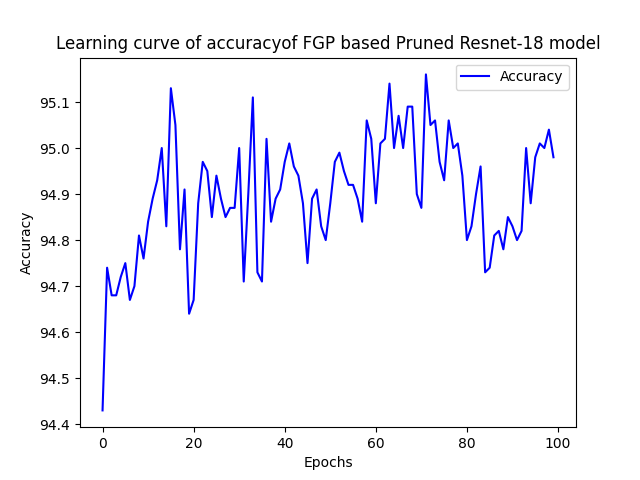
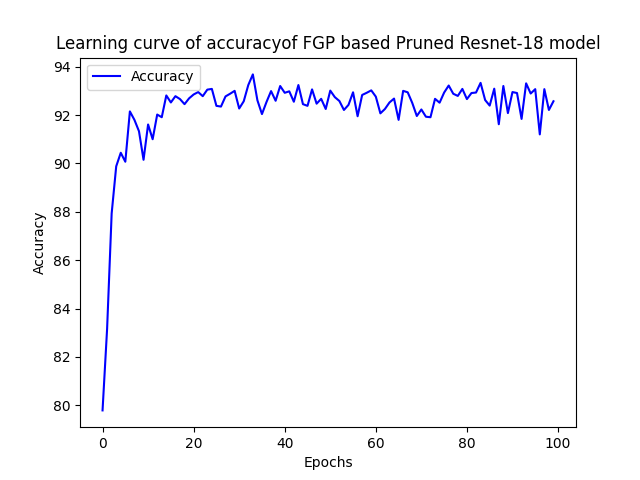
Resnet18 FGP redone

diff --git a/Utills/PrunUtillCP.py b/Utills/PrunUtillCP.py
@@ -208,11 +208,11 @@ def channel_prune_vgg(model,
 
 @torch.no_grad()
 def channel_prune_resnet(model, prune_ratios: Union[float, dict,list]):    
-    def prune_block(block, prune_ratios,n_keep):
+    def prune_block(block, prune_ratios,prev_n_keep):
         if block.shortcut:
-            block.shortcut[0].weight.set_(block.shortcut[0].weight.detach()[:,:n_keep]) #fixing number of inchannels due to previous channel change
+            block.shortcut[0].weight.set_(block.shortcut[0].weight.detach()[:,:prev_n_keep]) #fixing number of inchannels due to previous channel change
 
-        block.conv1.weight.set_(block.conv1.weight.detach()[:,:n_keep]) #fixing number of inchannels due to previous channel chang
+        block.conv1.weight.set_(block.conv1.weight.detach()[:,:prev_n_keep]) #fixing number of inchannels due to previous channel chang
 
         original_channels=block.conv1.out_channels
         n_keep = get_num_channels_to_keep(original_channels, prune_ratios)
@@ -237,30 +237,42 @@ def channel_prune_resnet(model, prune_ratios: Union[float, dict,list]):
             block.shortcut[1].running_var.set_(block.shortcut[1].running_var.detach()[:n_keep])
         return n_keep #we will need n_keep to fix next conv' inchannels fixing
 
-    def prune_bn_block(block, prune_ratios, n_keep):
+    def prune_bn_block(block, prune_ratios, prev_n_keep):
         if block.shortcut:
-            block.shortcut[0].weight.set_(block.shortcut[0].weight.detach()[:,:n_keep]) #fixing number of inchannels due to previous channel change
+            block.shortcut[0].weight.set_(block.shortcut[0].weight.detach()[:,:prev_n_keep]) #fixing number of inchannels due to previous channel change
 
-        block.conv1.weight.set_(block.conv1.weight.detach()[:,:n_keep]) #fixing number of inchannels due to previous channel chang
+        block.conv1.weight.set_(block.conv1.weight.detach()[:,:prev_n_keep]) #fixing number of inchannels due to previous channel chang
 
         original_channels=block.conv1.out_channels
-        n_keep_mid = get_num_channels_to_keep(original_channels, prune_ratios)
-        block.conv1.weight.set_(block.conv1.weight.detach()[:n_keep_mid])
-        block.bn1.weight.set_(block.bn1.weight.detach()[:n_keep_mid])
-        block.bn1.bias.set_(block.bn1.bias.detach()[:n_keep_mid])
-        block.bn1.running_mean.set_(block.bn1.running_mean.detach()[:n_keep_mid])
-        block.bn1.running_var.set_(block.bn1.running_var.detach()[:n_keep_mid])
+        n_keep = get_num_channels_to_keep(original_channels, prune_ratios)
+        block.conv1.weight.set_(block.conv1.weight.detach()[:n_keep])
+        block.bn1.weight.set_(block.bn1.weight.detach()[:n_keep])
+        block.bn1.bias.set_(block.bn1.bias.detach()[:n_keep])
+        block.bn1.running_mean.set_(block.bn1.running_mean.detach()[:n_keep])
+        block.bn1.running_var.set_(block.bn1.running_var.detach()[:n_keep])
 
-        block.conv2.weight.set_(block.conv2.weight.detach()[:,:n_keep_mid]) #fixing number of inchannels due to previous channel change
+        block.conv2.weight.set_(block.conv2.weight.detach()[:,:n_keep]) #fixing number of inchannels due to previous channel change
 
-        block.conv2.weight.set_(block.conv2.weight.detach()[:n_keep_mid])
-        block.bn2.weight.set_(block.bn2.weight.detach()[:n_keep_mid])
-        block.bn2.bias.set_(block.bn2.bias.detach()[:n_keep_mid])
-        block.bn2.running_mean.set_(block.bn2.running_mean.detach()[:n_keep_mid])
-        block.bn2.running_var.set_(block.bn2.running_var.detach()[:n_keep_mid])
+        block.conv2.weight.set_(block.conv2.weight.detach()[:n_keep])
+        block.bn2.weight.set_(block.bn2.weight.detach()[:n_keep])
+        block.bn2.bias.set_(block.bn2.bias.detach()[:n_keep])
+        block.bn2.running_mean.set_(block.bn2.running_mean.detach()[:n_keep])
+        block.bn2.running_var.set_(block.bn2.running_var.detach()[:n_keep])
 
-        block.conv3.weight.set_(block.conv3.weight.detach()[:,:n_keep_mid]) #fixing number of inchannels due to previous channel change
-        return block.conv3.out_channels
+        block.conv3.weight.set_(block.conv3.weight.detach()[:,:n_keep]) #fixing number of inchannels due to previous channel change
+        
+        block.conv3.weight.set_(block.conv3.weight.detach()[:n_keep*block.expansion])
+        block.bn3.weight.set_(block.bn3.weight.detach()[:n_keep*block.expansion])
+        block.bn3.bias.set_(block.bn3.bias.detach()[:n_keep*block.expansion])
+        block.bn3.running_mean.set_(block.bn3.running_mean.detach()[:n_keep*block.expansion])
+        block.bn3.running_var.set_(block.bn3.running_var.detach()[:n_keep*block.expansion])
+        if block.shortcut:
+            block.shortcut[0].weight.set_(block.shortcut[0].weight.detach()[:n_keep*block.expansion]) #fixing number of inchannels due to previous channel change
+            block.shortcut[1].weight.set_(block.shortcut[1].weight.detach()[:n_keep*block.expansion])
+            block.shortcut[1].bias.set_(block.shortcut[1].bias.detach()[:n_keep*block.expansion])
+            block.shortcut[1].running_mean.set_(block.shortcut[1].running_mean.detach()[:n_keep*block.expansion])
+            block.shortcut[1].running_var.set_(block.shortcut[1].running_var.detach()[:n_keep*block.expansion])
+        return n_keep*block.expansion #we will need n_keep to fix next conv' inchannels fixing
 
     assert isinstance(prune_ratios, (float, dict,list))
     # note that for the ratios, it affects the previous conv output and next

diff --git a/PruneTrain.py b/PruneTrain.py
@@ -23,34 +23,48 @@ def main():
     # Initialize the model
     basedir='PruningNAS'
     path='./dataset/cifar10'
-    select_model='Resnet-50'
-    pruning_type='CP'
+    select_model='Resnet-18'
+    pruning_type='FGP'
     #model_path='./checkpoint/vgg_mrl_99.51375579833984.pth'
-    model_path=f'{basedir}/checkpoint/Resnet-50/Resnet-50_cifar_95.739998.pth'
+    model_path=r'PruningNAS\checkpoint\Resnet-18\Resnet-18_cifar_95.659996.pth'
     # Load the saved state_dict correctly
     model = torch.load(model_path, map_location=torch.device(device),weights_only=False)  # Use 'cpu' if necessary
 
     model.to(device)
 
-    sparsity_dict = {
-        "conv1": 0.3,
-        "layer1.0": 0.4,
-        "layer1.1": 0.9,
-        "layer1.2": 0.3,
-        "layer2.0": 0.4,
-        "layer2.1": 0.9,
-        "layer2.2": 0.9,
-        "layer2.3": 0.8,
-        "layer3.0": 0.3,
-        "layer3.1": 0.9,
-        "layer3.2": 0.9,
-        "layer3.3": 0.8,
-        "layer3.4": 0.7,
-        "layer3.5": 0.6,
-        "layer4.0": 0.4,
-        "layer4.1": 0.9,
-        "layer4.2": 0.8
-    }
+    sparsity_dict =  {
+    "conv1": 0.8,
+
+    "layer1.0.conv1": 0.9,
+    "layer1.0.conv2": 0.9,
+    "layer1.1.conv1": 0.9,
+    "layer1.1.conv2": 0.9,
+
+    "layer2.0.conv1": 0.7,
+    "layer2.0.conv2": 0.7,
+    "layer2.0.shortcut.0": 0.9,
+
+    "layer2.1.conv1": 0.8,
+    "layer2.1.conv2": 0.9,
+
+    "layer3.0.conv1": 0.7,
+    "layer3.0.conv2": 0.7,
+    "layer3.0.shortcut.0": 0.9,
+
+    "layer3.1.conv1": 0.7,
+    "layer3.1.conv2": 0.9,
+
+    "layer4.0.conv1": 0.9,
+    "layer4.0.conv2": 0.9,
+    "layer4.0.shortcut.0": 0.9,
+
+    "layer4.1.conv1": 0.9,
+    "layer4.1.conv2": 0.9,
+
+    "fc": 0.9
+}
+
+
 
     # sparsity_dict ={ 
     # 'conv1':0.80,

diff --git a/PruneEvaluator.py b/PruneEvaluator.py
@@ -12,10 +12,10 @@ def main():
     # Initialize the model
     basedir='PruningNAS'
     path='./dataset/cifar10'
-    select_model='Resnet-152'
+    select_model='Resnet-18'
     prune_type='FGP'
     #model_path=f'{basedir}/checkpoint/vgg_mrl_99.51375579833984.pth'
-    model_path=f'{basedir}/checkpoint/Resnet-152/Resnet-152_cifar_95.830002.pth'
+    model_path=f'{basedir}/checkpoint/{select_model}/Resnet-18_cifar_95.659996.pth'
     # Load the saved state_dict correctly
     model = torch.load(model_path, map_location=torch.device(device),weights_only=False)  # Use 'cpu' if necessary
     model.to(device)
@@ -26,14 +26,14 @@ def main():
     train_dataloader,test_dataloader=get_dataloaders(path )
     ############# calculate sparsities (optional) #############################################
 
-    # sparsities, accuracies,names = sensitivity_scan(
-    # model, test_dataloader, scan_step=0.1, scan_start=0.1, scan_end=1.0,prune_type=prune_type,select_model=select_model)
+    sparsities, accuracies,names = sensitivity_scan(
+    model, test_dataloader, scan_step=0.1, scan_start=0.1, scan_end=1.0,prune_type=prune_type,select_model=select_model)
 
-    # with open(sparsities_path, "wb") as f:
-    #     pickle.dump(sparsities, f)
+    with open(sparsities_path, "wb") as f:
+        pickle.dump(sparsities, f)
 
-    # with open(accuracies_path, "wb") as f:
-    #     pickle.dump((accuracies,names), f)
+    with open(accuracies_path, "wb") as f:
+        pickle.dump((accuracies,names), f)
 
     ############################################################################################
     with open(sparsities_path, "rb") as f:

diff --git a/Models/DenseNet.py b/Models/DenseNet.py
@@ -81,7 +81,7 @@ class DenseNet(nn.Module):
                  growth_rate=32,
                  block_config=(6, 12, 24, 16),  # DenseNet-121
                  num_init_features=64,
-                 num_classes=10):
+                 classes=10):
 
         super().__init__()
 
@@ -109,7 +109,7 @@ class DenseNet(nn.Module):
                 channels = trans_out
 
         self.final_bn = nn.BatchNorm2d(channels)
-        self.fc = nn.Linear(channels, num_classes)
+        self.fc = nn.Linear(channels, classes)
 
     def forward(self, x):
         x = self.init_conv(x)
@@ -129,12 +129,12 @@ class DenseNet(nn.Module):
 # Factory functions
 # ---------------------------
 def DenseNet121(classes=10):
-    return DenseNet(growth_rate=32, block_config=(6, 12, 24, 16), num_classes=classes)
+    return DenseNet(growth_rate=32, block_config=(6, 12, 24, 16), classes=classes)
 
 
 def DenseNet169(classes=10):
-    return DenseNet(growth_rate=32, block_config=(6, 12, 32, 32), num_classes=classes)
+    return DenseNet(growth_rate=32, block_config=(6, 12, 32, 32), classes=classes)
 
 
 def DenseNet201(classes=10):
-    return DenseNet(growth_rate=32, block_config=(6, 12, 48, 32), num_classes=classes)
+    return DenseNet(growth_rate=32, block_config=(6, 12, 48, 32), classes=classes)

diff --git a/Train.py b/Train.py
@@ -30,7 +30,7 @@ def main():
     classes=10
     train_dataloader, test_dataloader = get_dataloaders(path, batch_size=128)
 
-    select_model='Resnet-34'
+    select_model='Resnet-18'
     if select_model=='Vgg-16':
         model=VGG(classes=classes)
     elif select_model=='Resnet-18':
@@ -50,15 +50,15 @@ def main():
         exit
 
     # ########load from path only for retraining #####
-    model_path=r'PruningNAS\checkpoint\Resnet-34\Resnet-34_cifar_95.620003.pth'
+    model_path=r'PruningNAS\checkpoint\Resnet-18\FGP\Resnet-18_cifar_FGP_93.68000030517578.pth'
     model = torch.load(model_path, map_location=torch.device(device),weights_only=False)  # Use 'cpu' if necessary
     ################################################
     model = model.to(device)
 
     criterion = nn.CrossEntropyLoss()
-    optimizer = SGD( model.parameters(), lr=0.00003,  momentum=0.9,  weight_decay=5e-4,)
+    optimizer = SGD( model.parameters(), lr=0.003,  momentum=0.9,  weight_decay=5e-4,)
 
-    num_epochs=100
+    num_epochs = 40
     scheduler = CosineAnnealingLR(optimizer, num_epochs)
     # scheduler = CosineAnnealingLR(optimizer, T_max=50)
 

diff --git a/DoThings.py b/DoThings.py
@@ -1,13 +1,14 @@
 import torch
-from PruningNAS.Models.DenseNet import DenseNet121
-from PruningNAS.Models.ResNetBasic import ResNet34
+from PruningNAS.Models.DenseNet import *
+from PruningNAS.Models.ResNetBasic import *
+from PruningNAS.Models.ResNetBottleNeck import *
 from PruningNAS.Utills.PrunUtillCP import ChannelPrunner, channel_prune_resnet
 
 # Initialize DenseNet-121 model
-model = ResNet34(classes=10)
+model = ResNet50(classes=10)
 device = torch.device("cuda" if torch.cuda.is_available() else "cpu")
 # Load pre-trained weights (if available)
-model_path = r'D:\Sutanu_WorkSpace\PruningNAS\PruningNAS\checkpoint\Resnet-50\Resnet-50_cifar_95.739998.pth'
+model_path = r'PruningNAS\checkpoint\Resnet-50\Resnet-50_cifar_95.739998.pth'
 model = torch.load(model_path, map_location=torch.device(device),weights_only=False)  # Use 'cpu' if necessary
 model.to(device)
 

diff --git a/DoThings4.py b/DoThings4.py
@@ -1,0 +1,25 @@
+from copy import copy
+import pickle
+from pyexpat import model
+
+import torch
+
+from PruningNAS.Models.DenseNet import DenseNet121
+from PruningNAS.PruneEvaluator import load_and_print_accuracies
+from PruningNAS.Utills.PrunUtillCP import apply_channel_sorting_on_densenet
+
+device = torch.device("cuda" if torch.cuda.is_available() else "cpu")
+model=DenseNet121(num_classes=10)
+sorted_model=copy.deepcopy(model)
+sorted_model =apply_channel_sorting_on_densenet(model, 0.7, device)
+dummy_input = torch.randn(1, 3, 32, 32).to(device)
+with torch.no_grad():
+    dummy_output = model(dummy_input)    
+print("\nOutput shape:", dummy_output.shape)
+print("Output:", dummy_output)
+
+
+with torch.no_grad():
+    dummy_output = sorted_model(dummy_input)    
+print("\nOutput shape:", dummy_output.shape)
+print("Output:", dummy_output)

diff --git a/Utills/TrainingModulesUtills.py b/Utills/TrainingModulesUtills.py
@@ -147,7 +147,7 @@ def TrainingPrunned(pruned_model,train_dataloader,test_dataloader,criterion, opt
         if is_best:
             best_accuracy = test_acc
             best_model=copy.deepcopy(pruned_model)
-        print(f'    Epoch {epoch+1} Test accuracy:{test_acc:.2f}% / Best Accuracy: {best_accuracy:.2f}%, train loss: {train_loss:.4f}, test loss {test_loss:.4f}')
+        print(f'    Epoch {epoch+1} Test accuracy:{test_acc:.2f}% / Best Accuracy: {best_accuracy:.2f}%, train loss: {scheduler.get_last_lr()}')
         if scheduler is not None:
           scheduler.step()
 

diff --git a/DoThingsy.py b/DoThingsy.py
@@ -3,6 +3,6 @@ import pickle
 from PruningNAS.PruneEvaluator import load_and_print_accuracies
 
 # Path to the pickle file
-pickle_file = r"D:\Sutanu_WorkSpace\PruningNAS\PruningNAS\checkpoint\Resnet-50\FGP\Resnet-50_accuracies.pkl"
+pickle_file = r"PruningNAS\checkpoint\Resnet-18\FGP\Resnet-18_accuracies.pkl"
 
 load_and_print_accuracies(pickle_file)
